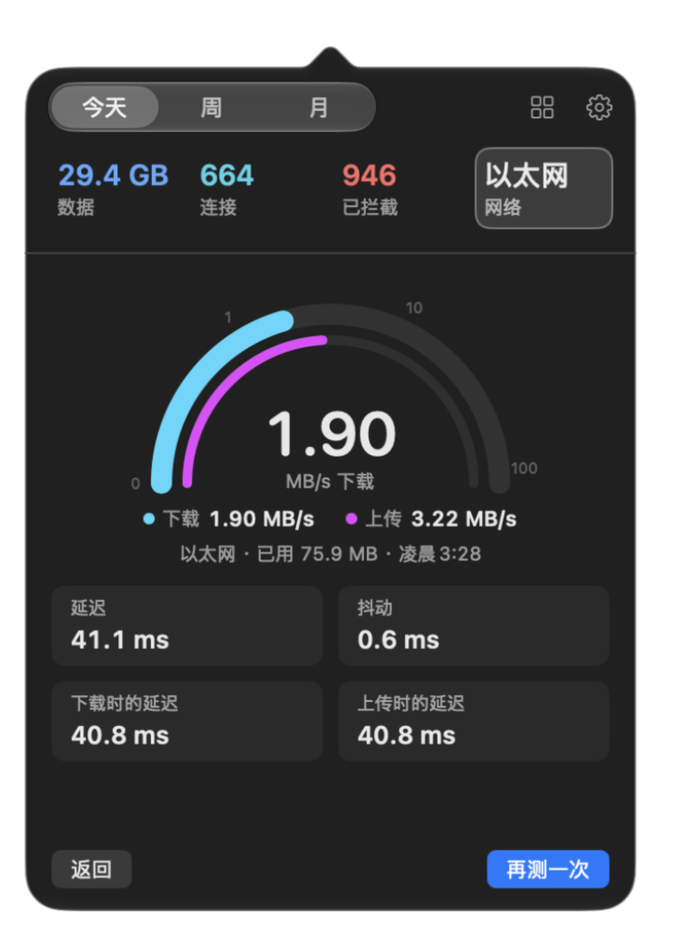
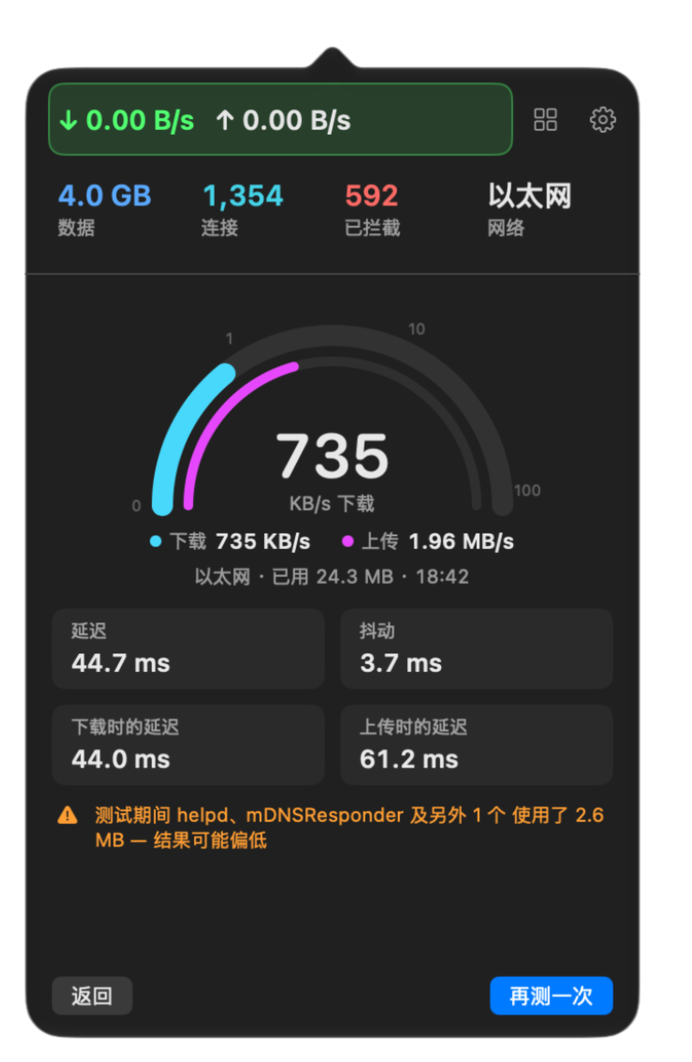
README: the speed test pictures from 1.35.0 (#842)
* README: the speed test pictures from 1.35.0, on Live

* Docs: the speed test picture's alt text says Live

---------

diff --git a/docs/zh-Hans/speed-test.md b/docs/zh-Hans/speed-test.md
@@ -4,7 +4,7 @@
 
 <p align="center">
   <img src="../../Resources/README/zh-Hans/speed-test.png" width="320"
-       alt="网速测试完成后弹出窗口中的“网络”视图，上方是“今天”、“周”、“月”和四个数字：中央显示下载速度的表盘，下载和上传速度、网络、测试用了多少流量以及测试时间，然后是延迟、抖动、下载时的延迟和上传时的延迟；“返回”和“再测一次”按钮。">
+       alt="网速测试完成后弹出窗口中的“实时”视图，上方是以绿色突出显示的“实时”一行和四个数字：中央显示下载速度的表盘，下载和上传速度、网络、测试用了多少流量以及测试时间，然后是延迟、抖动、下载时的延迟和上传时的延迟；“返回”和“再测一次”按钮。">
 </p>
 
 点按弹出窗口“实时”视图中的 <strong>测试网速</strong>（隐藏“实时”时在“网络”视图中），从右键菜单中选择 <strong>测试网速</strong>，或者点按主窗口 <strong>实时</strong> 页面（⌘L）上的 <strong>立即测试</strong>。它测试的是你正在使用的连接。NetworkMonitor 会运行 `networkQuality`，这是 Apple 自 Monterey 起随每台 Mac 附带的网速测试工具，测试对象是离你最近的 Apple 服务器。

diff --git a/docs/speed-test.md b/docs/speed-test.md
@@ -4,7 +4,7 @@ English · [简体中文](zh-Hans/speed-test.md)
 
 <p align="center">
   <img src="../Resources/README/speed-test.png" width="320"
-       alt="The popover’s Network view after a speed test, under Today, Week and Month and the four figures: a dial with the download speed in its centre, the download and upload speeds, the network, how much the test used and when, then ping, jitter, and ping while downloading and while uploading; Back and Test Again buttons.">
+       alt="The popover’s Live view after a speed test, under the Live line, highlighted in green, and the four figures: a dial with the download speed in its centre, the download and upload speeds, the network, how much the test used and when, then ping, jitter, and ping while downloading and while uploading; Back and Test Again buttons.">
 </p>
 
 Click **Test Speed** in the popover's **Live** view (in **Network** while Live is hidden), choose **Test Internet Speed** from
